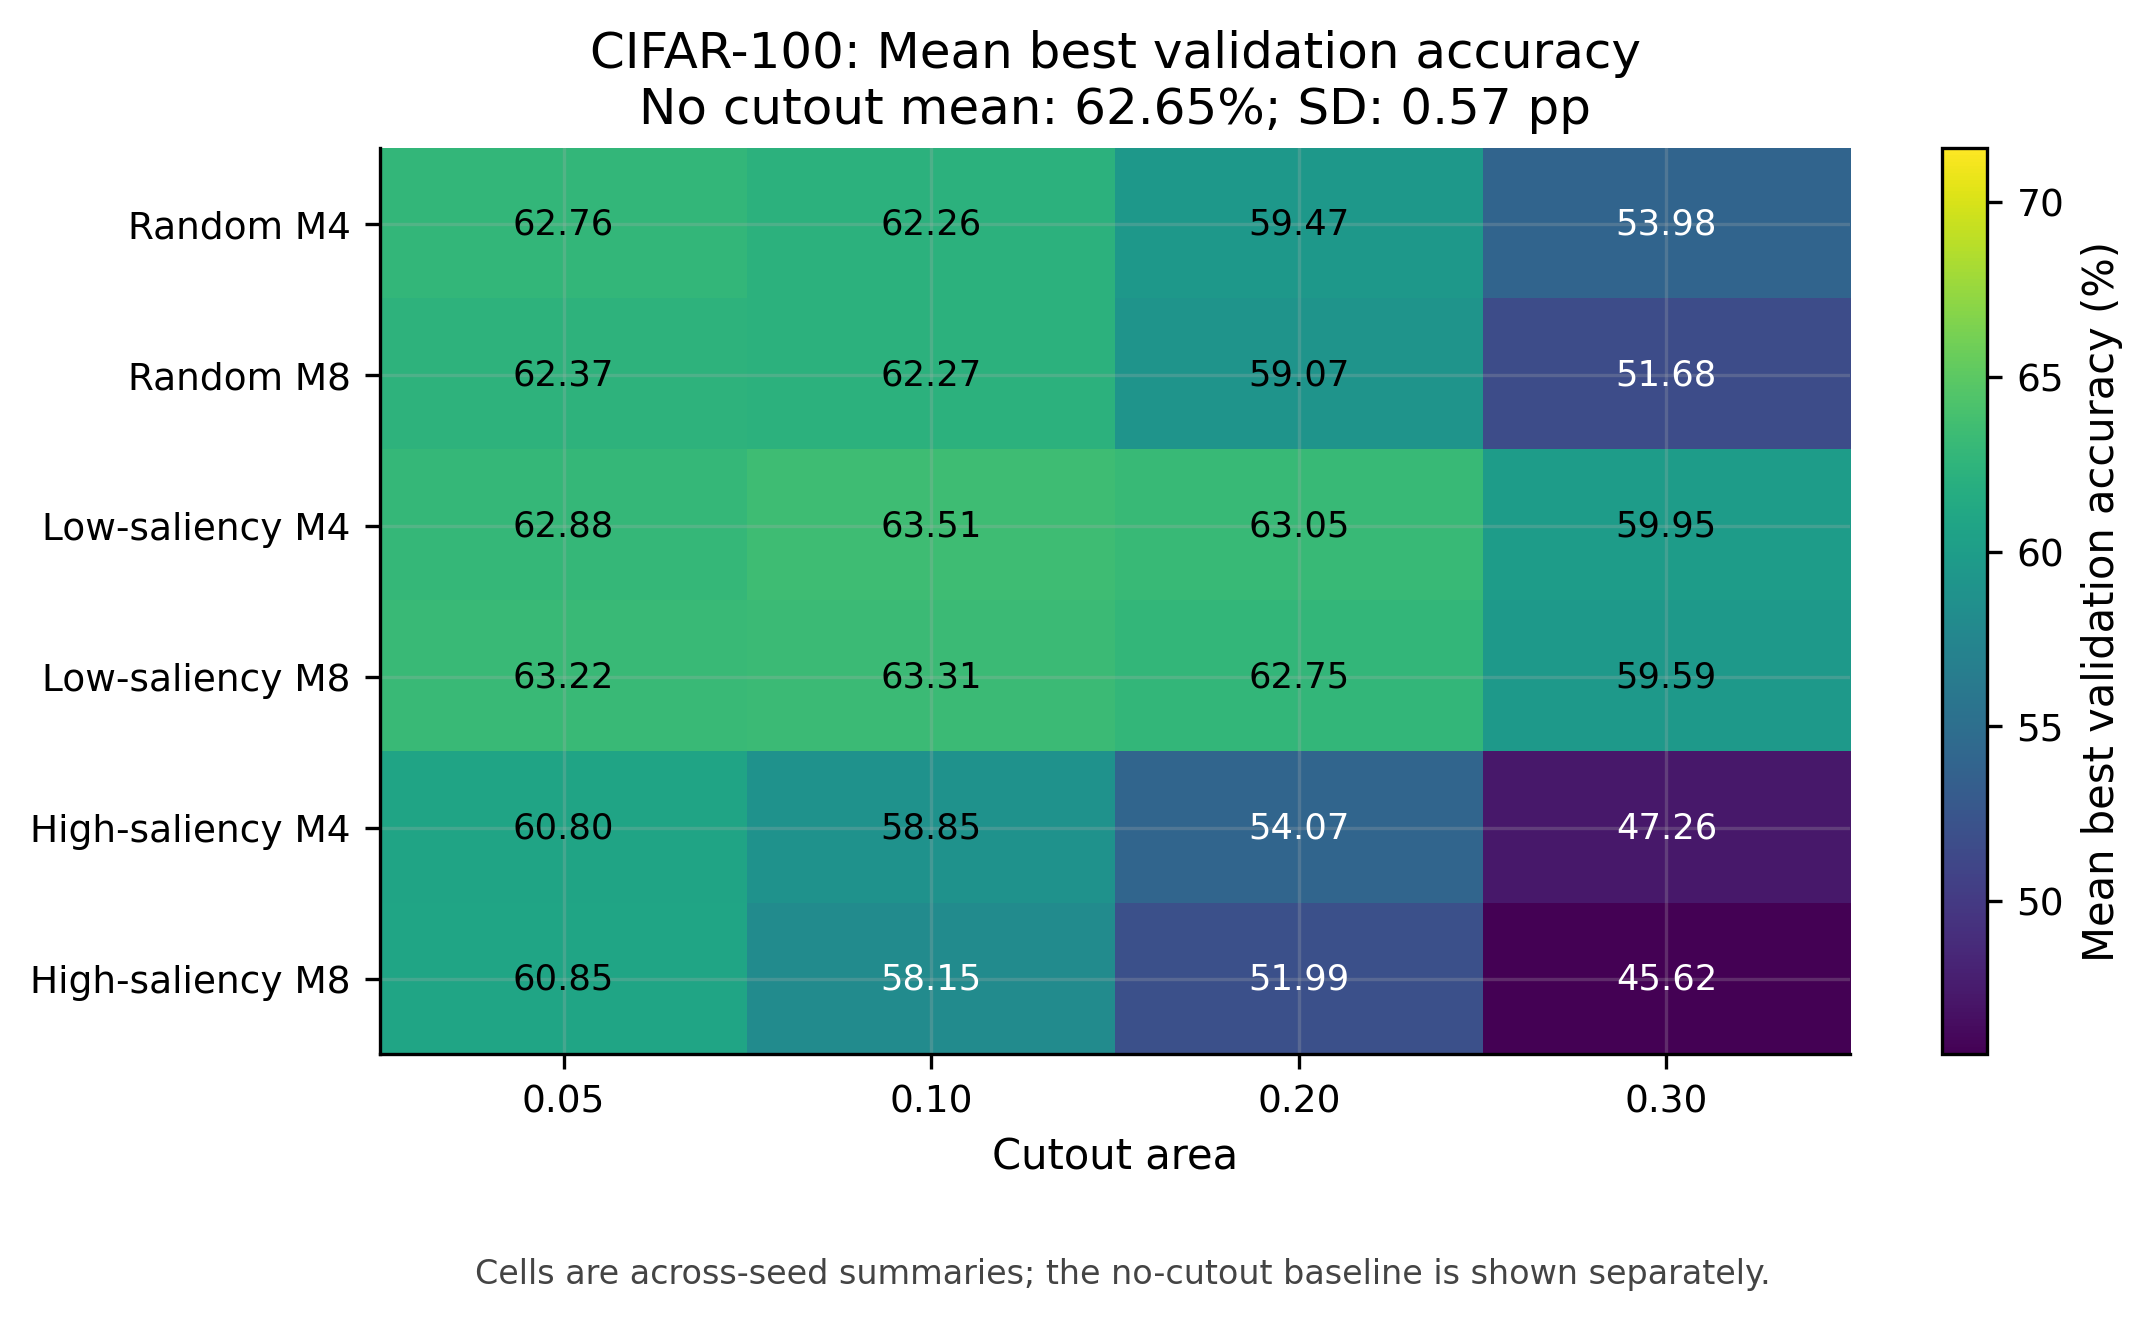
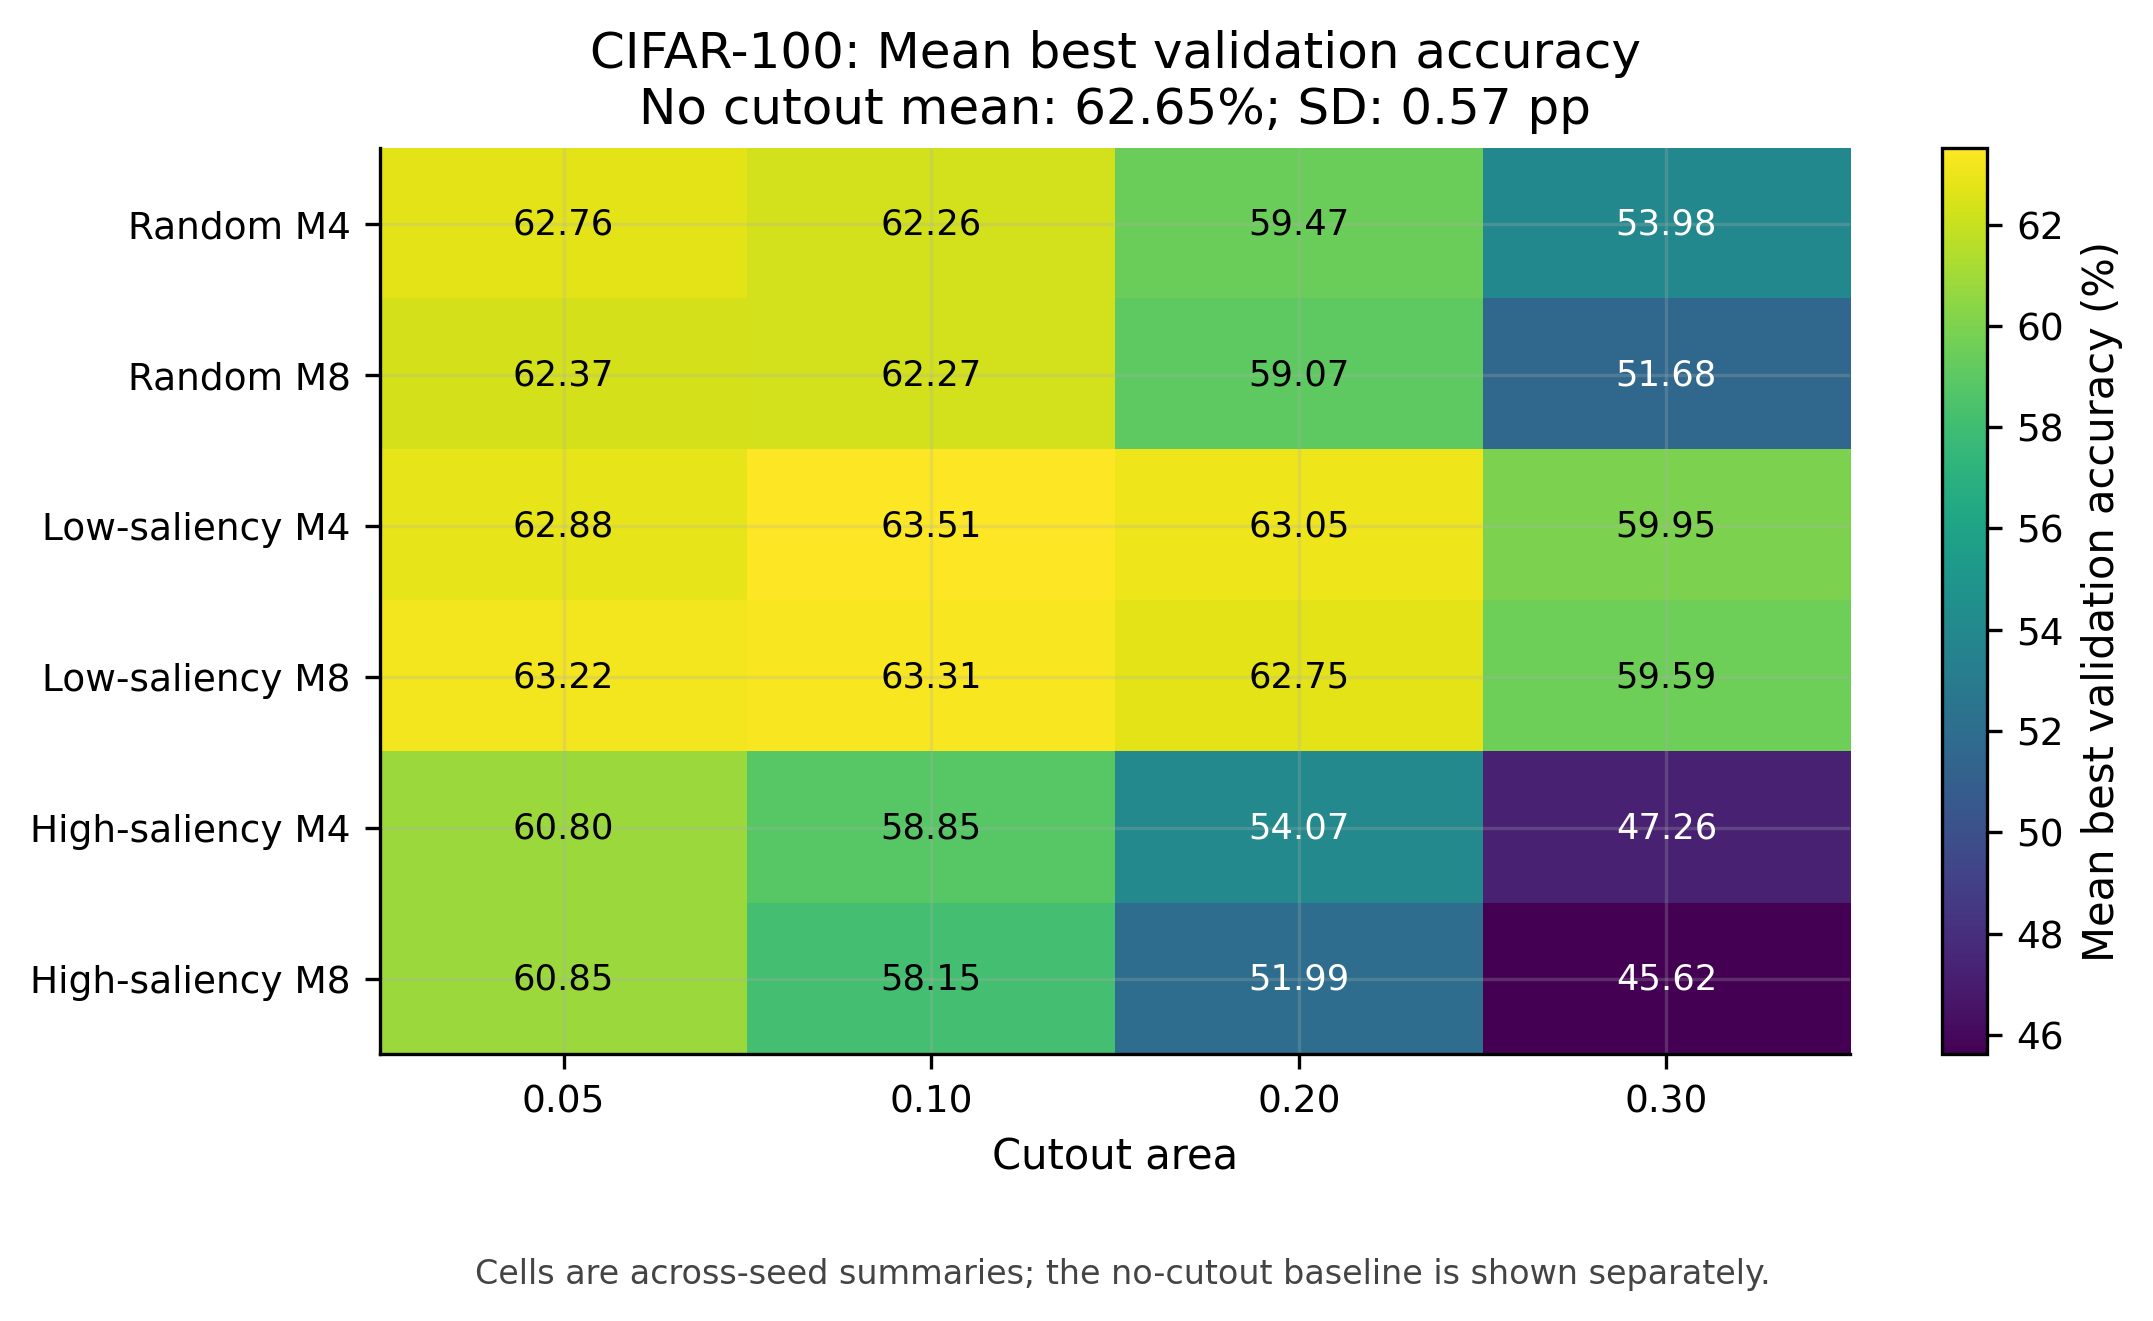
heatmap change update

diff --git a/runs/summary/generate_summary.py b/runs/summary/generate_summary.py
@@ -8,6 +8,7 @@ modify source experiment artifacts.
 
 from __future__ import annotations
 
+import argparse
 import hashlib
 import json
 import math
@@ -1526,14 +1527,37 @@ def aggregate_cell(aggregate: pd.DataFrame, dataset: str, mode: str, m_value: in
     return subset.iloc[0]
 
 
-def plot_heatmaps(aggregate: pd.DataFrame) -> list[Path]:
+def finite_color_limits(values: np.ndarray, fallback: tuple[float, float] = (0.0, 1.0)) -> tuple[float, float]:
+    finite_values = values[np.isfinite(values)]
+    if finite_values.size == 0:
+        return fallback
+    vmin = float(np.min(finite_values))
+    vmax = float(np.max(finite_values))
+    if math.isclose(vmin, vmax):
+        padding = max(abs(vmin) * 0.01, 1.0)
+        return vmin - padding, vmax + padding
+    return vmin, vmax
+
+
+def heatmap_matrix(aggregate: pd.DataFrame, dataset: str, metric_column: str) -> np.ndarray:
+    row_specs = [(mode, m_value) for mode in AUGMENTED_CONDITIONS for m_value in EXPECTED_MS]
+    matrix = np.full((len(row_specs), len(EXPECTED_AREAS)), np.nan)
+    for row_index, (mode, m_value) in enumerate(row_specs):
+        for col_index, area in enumerate(EXPECTED_AREAS):
+            cell = aggregate_cell(aggregate, dataset, mode, m_value, area)
+            if cell is not None and not pd.isna(cell[metric_column]):
+                matrix[row_index, col_index] = float(cell[metric_column]) * 100
+    return matrix
+
+
+def plot_heatmaps(aggregate: pd.DataFrame, selected_folders: set[str] | None = None) -> list[Path]:
     outputs: list[Path] = []
     row_specs = [(mode, m_value) for mode in AUGMENTED_CONDITIONS for m_value in EXPECTED_MS]
     row_labels = [f"{CONDITION_SHORT_LABELS[mode]} M{m_value}" for mode, m_value in row_specs]
-    all_means = aggregate[aggregate["mode"] != "none"]["best_validation_accuracy_mean"].dropna().to_numpy(dtype=float) * 100
-    all_stds = aggregate[aggregate["mode"] != "none"]["best_validation_accuracy_sample_std"].dropna().to_numpy(dtype=float) * 100
-    mean_vmin, mean_vmax = float(np.nanmin(all_means)), float(np.nanmax(all_means))
-    std_vmin, std_vmax = 0.0, float(np.nanmax(all_stds))
+    if selected_folders is not None:
+        selected_folders = set(selected_folders)
+    std_values = aggregate[aggregate["mode"] != "none"]["best_validation_accuracy_sample_std"].dropna().to_numpy(dtype=float) * 100
+    std_vmin, std_vmax = 0.0, finite_color_limits(std_values, fallback=(0.0, 1.0))[1]
 
     for dataset in (display_dataset(dataset_id) for dataset_id in EXPECTED_DATASETS):
         slug = dataset_slug_from_label(dataset)
@@ -1544,14 +1568,12 @@ def plot_heatmaps(aggregate: pd.DataFrame) -> list[Path]:
                 f"No cutout mean: {float(baseline['best_validation_accuracy_mean']) * 100:.2f}%; "
                 f"SD: {float(baseline['best_validation_accuracy_sample_std']) * 100:.2f} pp"
             )
-        for metric_column, title_metric, folder, suffix, vmin, vmax, colorbar_label in (
+        for metric_column, title_metric, folder, suffix, colorbar_label in (
             (
                 "best_validation_accuracy_mean",
                 "Mean best validation accuracy",
                 "mean_heatmaps",
                 "mean_best_validation_accuracy_heatmap",
-                mean_vmin,
-                mean_vmax,
                 "Mean best validation accuracy (%)",
             ),
             (
@@ -1559,17 +1581,16 @@ def plot_heatmaps(aggregate: pd.DataFrame) -> list[Path]:
                 "Best-validation accuracy sample SD",
                 "variability_heatmaps",
                 "std_best_validation_accuracy_heatmap",
-                std_vmin,
-                std_vmax,
                 "Sample SD across seeds (percentage points)",
             ),
         ):
-            matrix = np.full((len(row_specs), len(EXPECTED_AREAS)), np.nan)
-            for row_index, (mode, m_value) in enumerate(row_specs):
-                for col_index, area in enumerate(EXPECTED_AREAS):
-                    cell = aggregate_cell(aggregate, dataset, mode, m_value, area)
-                    if cell is not None and not pd.isna(cell[metric_column]):
-                        matrix[row_index, col_index] = float(cell[metric_column]) * 100
+            if selected_folders is not None and folder not in selected_folders:
+                continue
+            matrix = heatmap_matrix(aggregate, dataset, metric_column)
+            if folder == "mean_heatmaps":
+                vmin, vmax = finite_color_limits(matrix)
+            else:
+                vmin, vmax = std_vmin, std_vmax
             fig, ax = plt.subplots(figsize=(7.6, 4.9))
             image = ax.imshow(matrix, cmap="viridis", aspect="auto", vmin=vmin, vmax=vmax)
             set_xticks_with_labels(ax, np.arange(len(EXPECTED_AREAS)), [area_label(area) for area in EXPECTED_AREAS])
@@ -2197,7 +2218,38 @@ def print_completion(
     print(f"plot_files: {len(plot_outputs)}")
 
 
+def parse_args() -> argparse.Namespace:
+    parser = argparse.ArgumentParser(description="Generate summary artifacts for CAM cutout experiments.")
+    parser.add_argument(
+        "--only-plot-folder",
+        choices=("mean_heatmaps",),
+        help="Regenerate only one plot folder without cleaning or rewriting the rest of runs/summary.",
+    )
+    return parser.parse_args()
+
+
+def regenerate_mean_heatmaps_only() -> None:
+    configure_matplotlib()
+    records, metric_frames = discover_runs()
+    analysis_runs, _duplicate_baselines = select_analysis_runs(records)
+    per_run = compute_per_run_metrics(analysis_runs, metric_frames)
+    aggregate = build_aggregate_table(per_run)
+    plot_outputs = plot_heatmaps(aggregate, selected_folders={"mean_heatmaps"})
+    missing = [relative_path(path) for path in plot_outputs if not path.exists()]
+    if missing:
+        raise RuntimeError("Missing expected mean heatmap outputs: " + ", ".join(missing))
+    print("regenerated_plot_folder: mean_heatmaps")
+    print(f"plot_files: {len(plot_outputs)}")
+    for path in plot_outputs:
+        print(f"- {relative_path(path)}")
+
+
 def main() -> None:
+    args = parse_args()
+    if args.only_plot_folder == "mean_heatmaps":
+        regenerate_mean_heatmaps_only()
+        return
+
     configure_matplotlib()
     clean_summary_dir()
     records, metric_frames = discover_runs()
